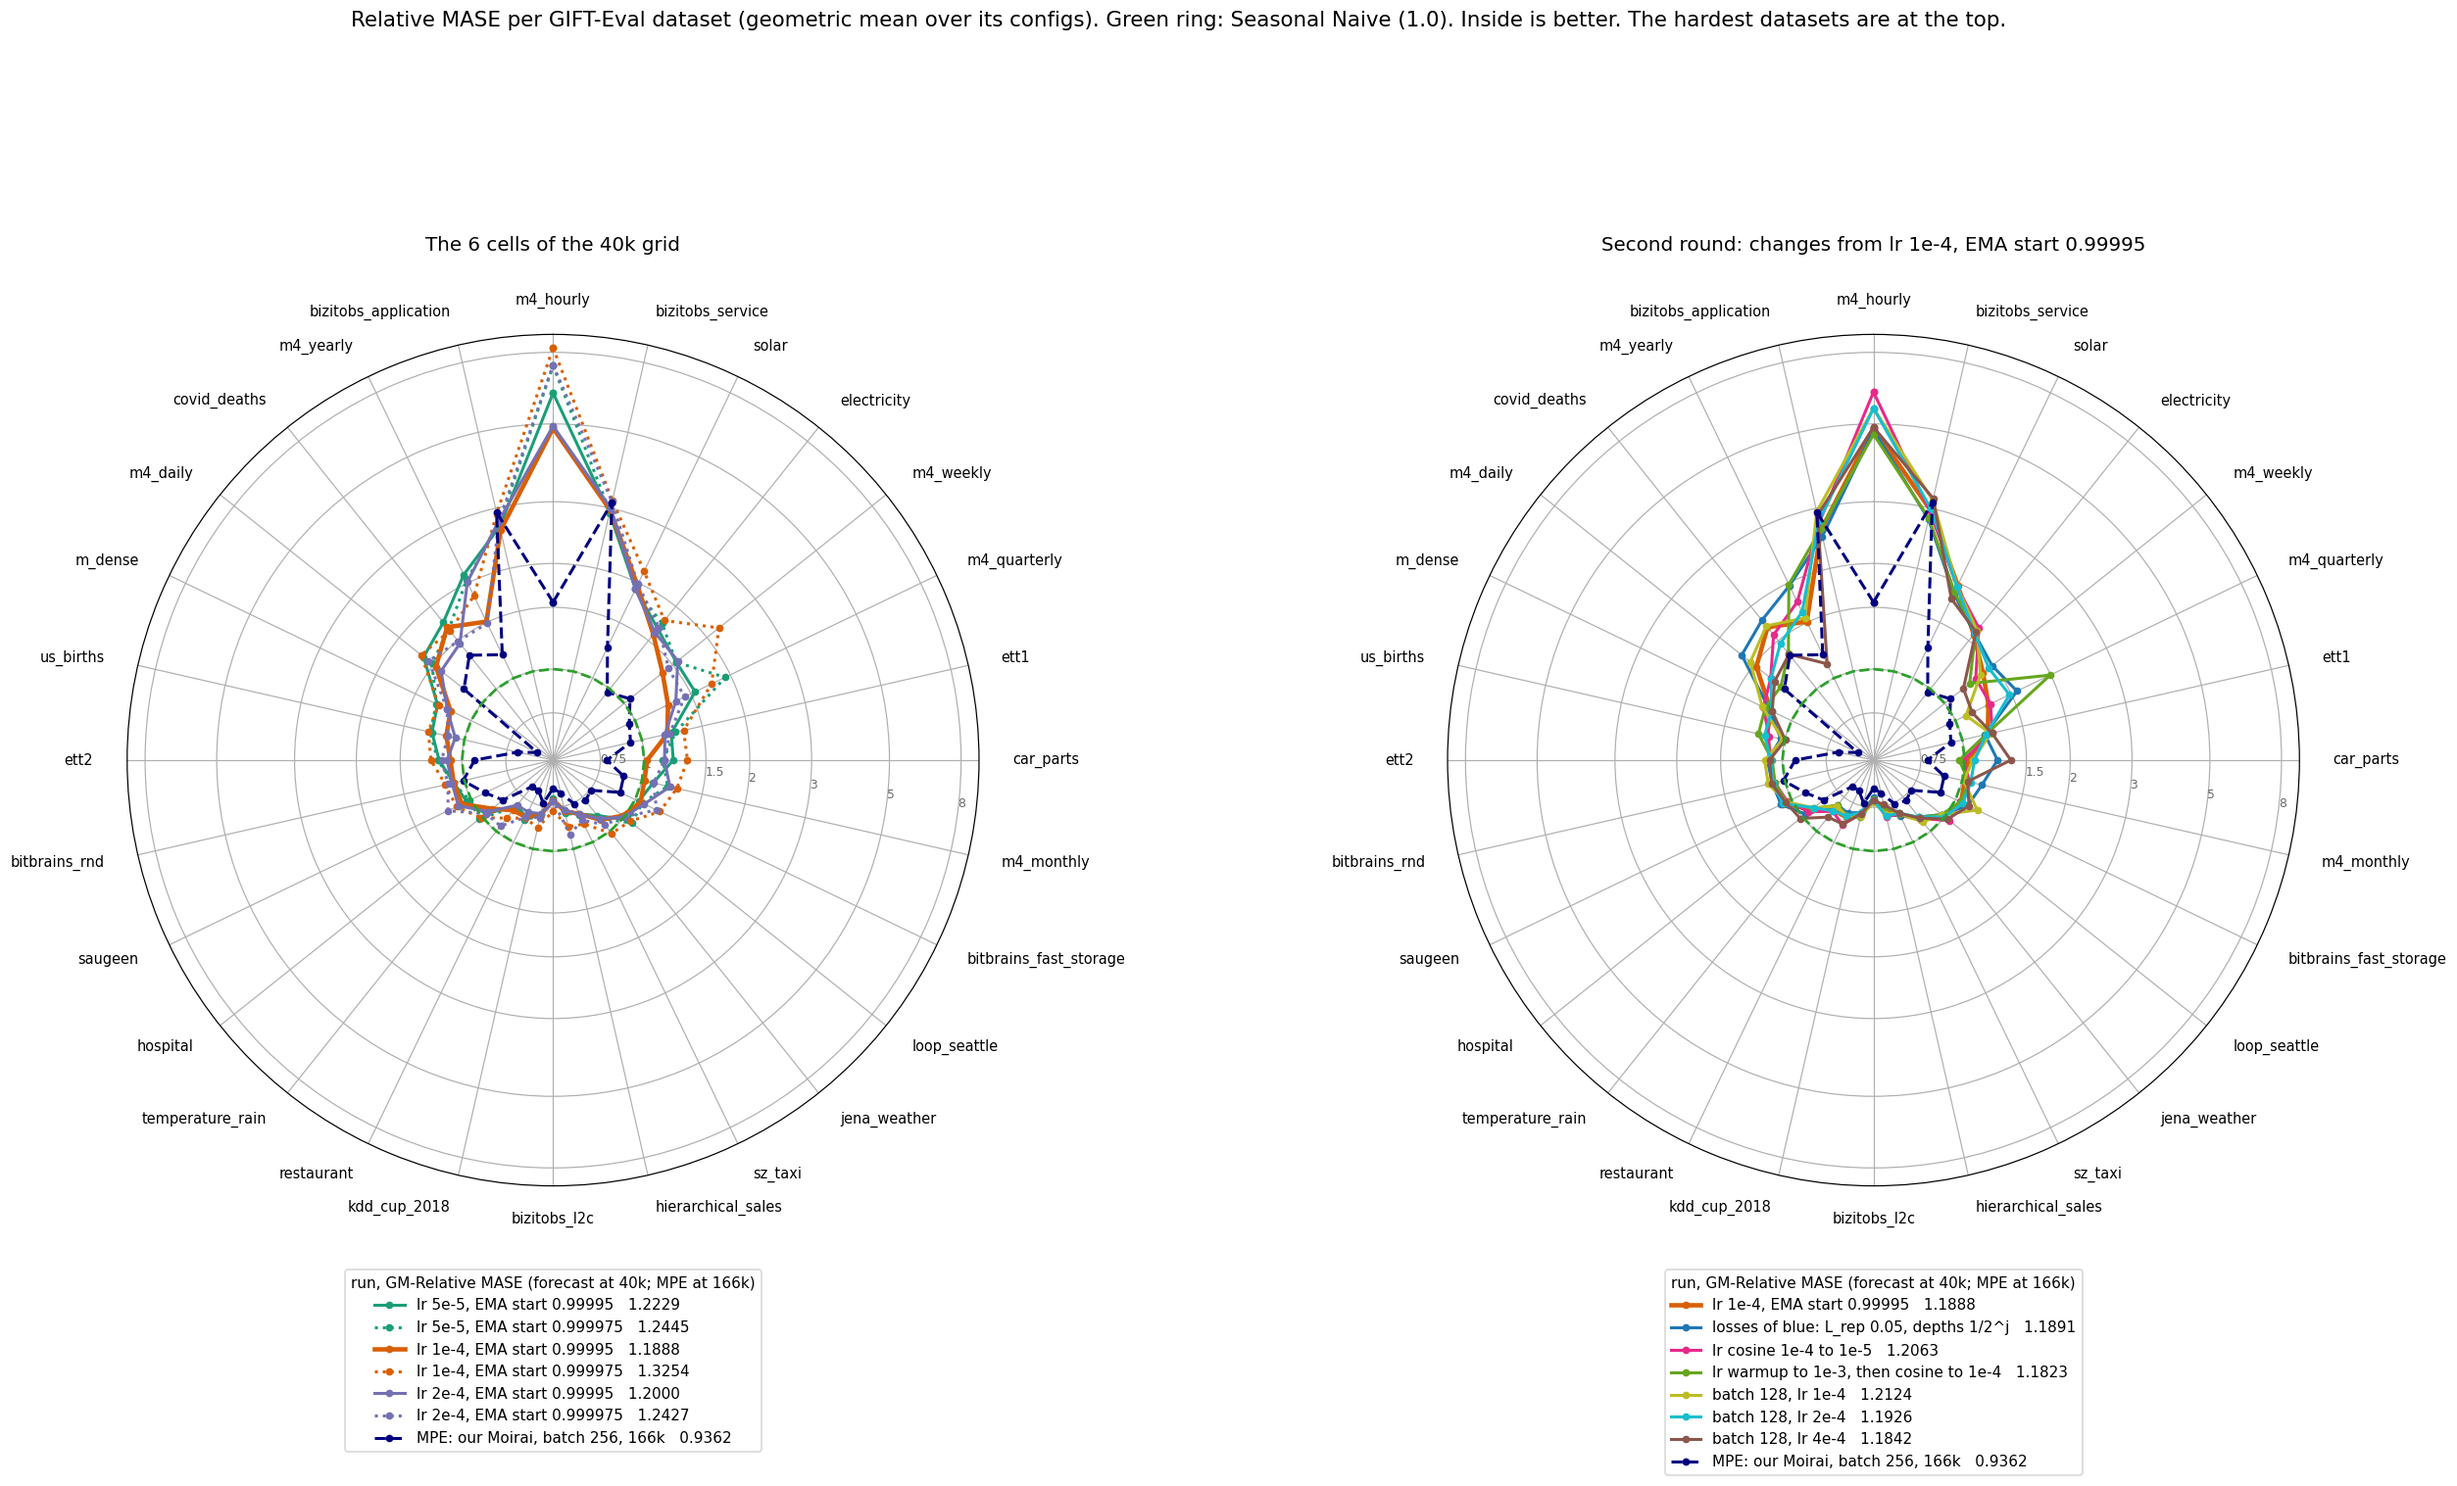
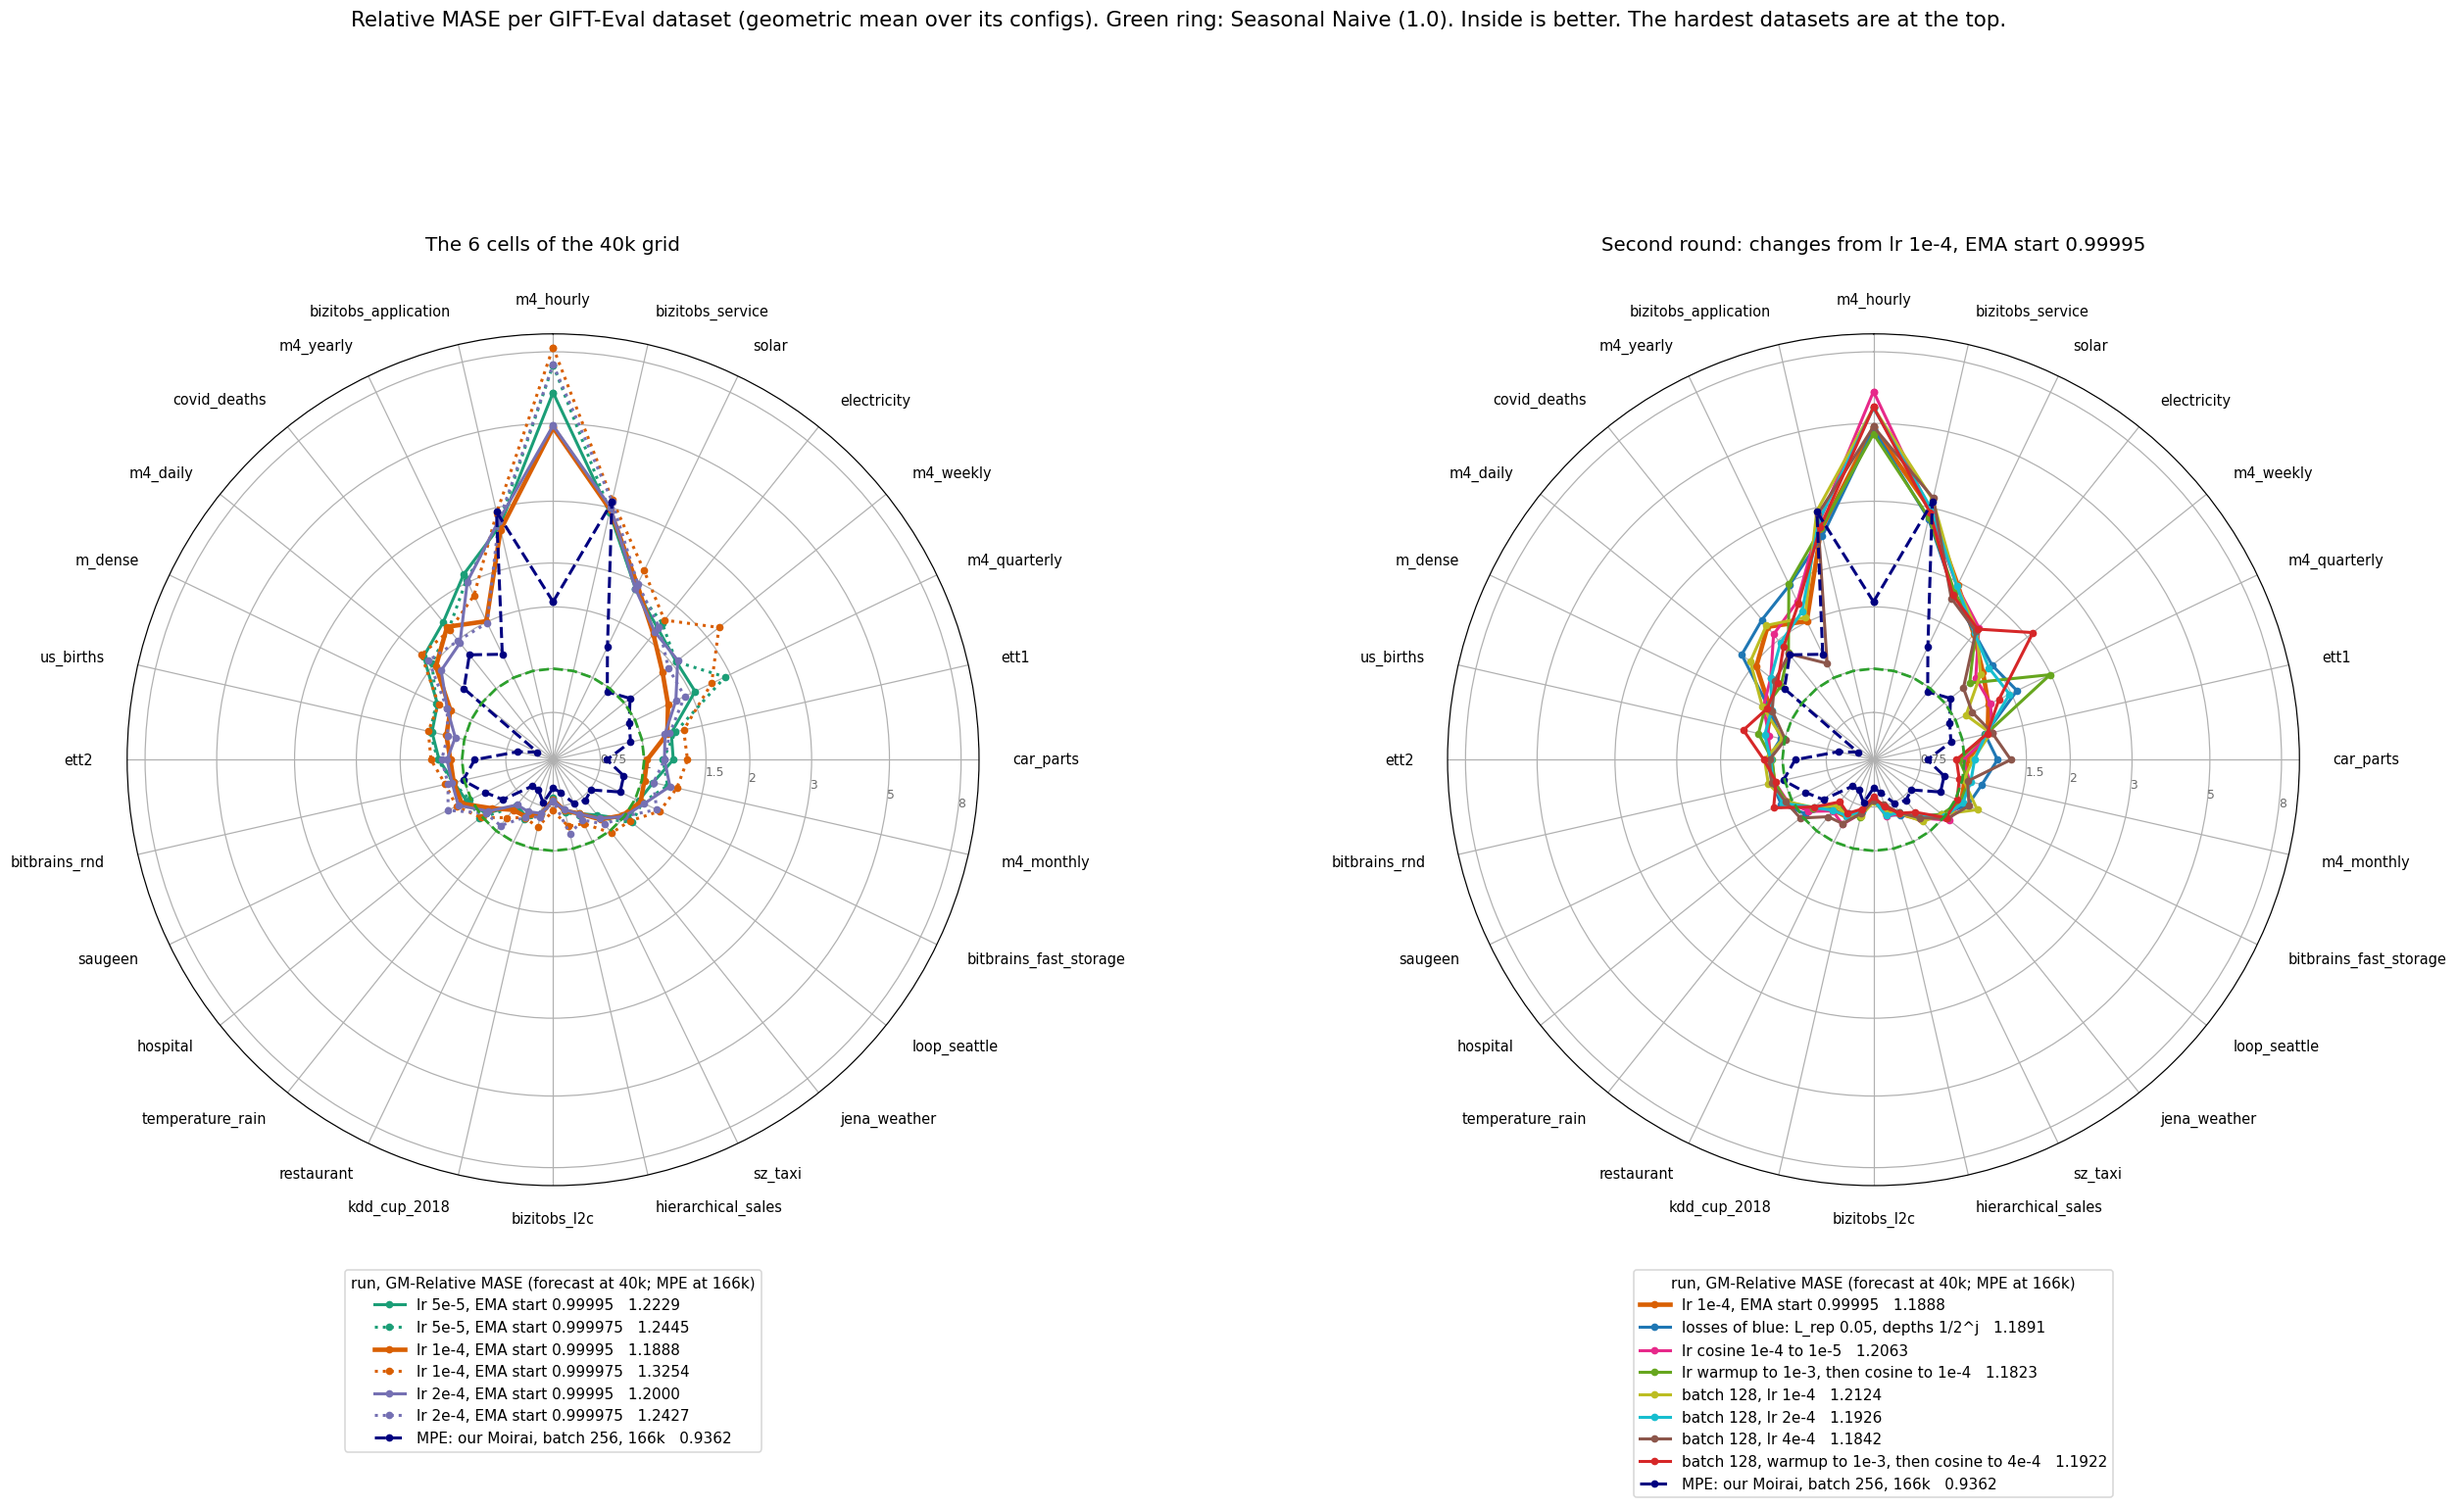
freq_family report: A at batch 128 (warmup to 1e-3, cosine to 4e-4) gives 1.1922; the planned rows without A2
The constant lr 4e-4 at batch 128 gives 1.1842, so the warmup does not help at batch 128.

diff --git a/reports/2026-10-10_frequency_family_head/scripts/plot_grid40k.py b/reports/2026-10-10_frequency_family_head/scripts/plot_grid40k.py
@@ -55,11 +55,9 @@ ROUND2 = {BEST: ("lr 1e-4, EMA start 0.99995\n(no change)", "1e-4"),
 # The planned runs of the search, not started: (row label, when). The user (11-03 about
 # 21:05 UTC): the heatmap shows them; each one moves into ROUND2 when it starts.
 PLANNED = [
-    ("batch 128, lr 1e-3\n(if lr 8e-4 beats 4e-4)", "planned, about 03:00 UTC"),
-    ("batch 128, warmup to 2e-3,\nthen cosine to the best lr", "planned after A,\nif a higher peak looks better"),
-    ("the best batch-128 config\nwith the fixed SIGReg window", "planned, about 03:00 UTC\n(the SIGReg gate)"),
+    ("batch 128, lr 1e-3\n(if lr 8e-4 beats 4e-4)", "planned, about 02:30 UTC"),
+    ("the best batch-128 config\nwith the fixed SIGReg window", "planned, about 02:30 UTC\n(the SIGReg gate)"),
     ("FIXED CODE, batch 256, constant lr\naround the projected lr", "planned after the gate\n(about 09:00 UTC)"),
-    ("FIXED CODE, batch 256, warmup to a\nhigh peak, then cosine to the best lr", "planned after the gate\n(about 09:00 UTC)"),
 ]
 # run -> its colour in the radar and in the training figure of the second round
 ROUND2_COLOURS = {BEST: "#d95f02", "g40b_lr1em4_tau99995_rep005h": "#1f77b4",

diff --git a/reports/2026-10-10_frequency_family_head/frequency_family_head.md b/reports/2026-10-10_frequency_family_head/frequency_family_head.md
@@ -66,6 +66,8 @@ A warmup of the learning rate to 1e-3 over 4k steps, then a cosine to 1e-4, give
 The losses of blue give 1.1891, and a cosine from 1e-4 to 1e-5 gives 1.2063.
 At batch 128, the learning rates 1e-4, 2e-4 and 4e-4 give 1.2124, 1.1926 and 1.1842.
 The score decreases up to 4e-4, the highest learning rate of the search.
+At batch 128, a warmup to 1e-3 over 4k steps, then a cosine to 4e-4, gives 1.1922.
+The constant learning rate 4e-4 gives 1.1842.
 
 ![Relative MASE per GIFT-Eval dataset](plots/grid40k_radar.png)
 
